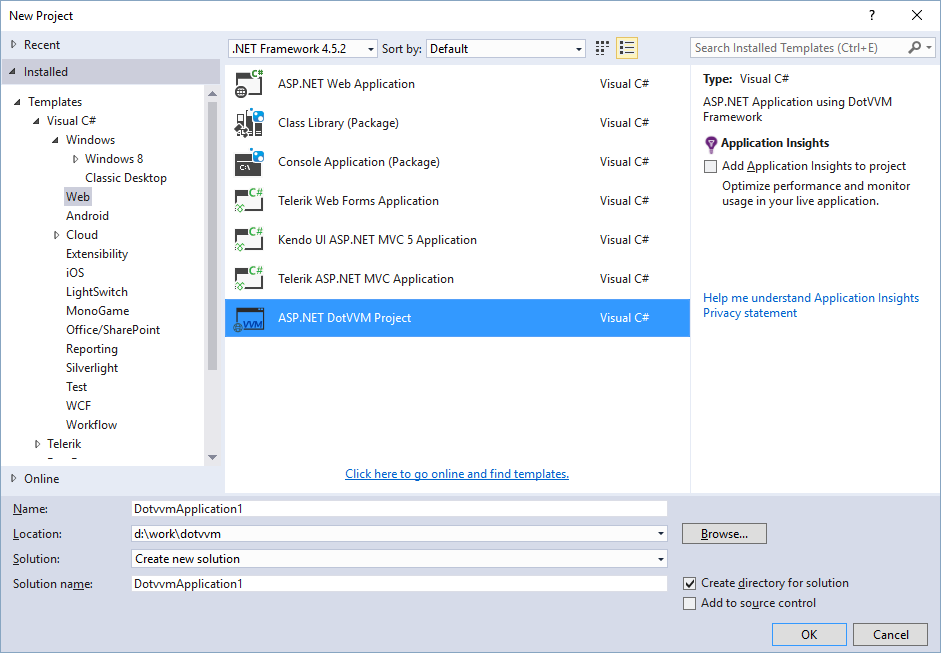
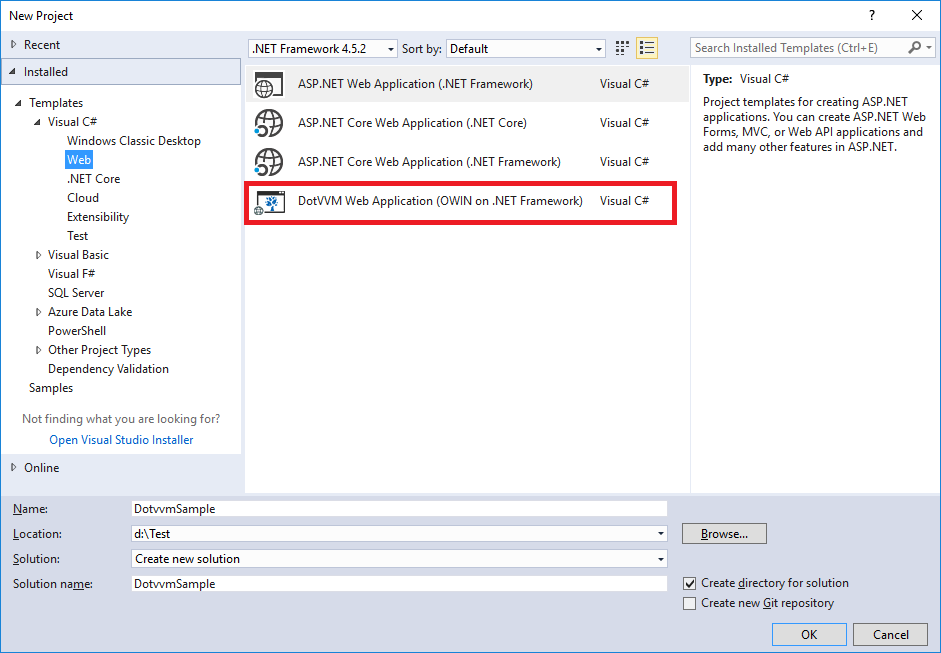
How to start chapter updated to version 1.1

diff --git a/Pages/how-to-start-existing-app.md b/Pages/how-to-start-existing-app.md
@@ -1,21 +1,24 @@
 ## Adding DotVVM in Existing Web App
 
 **DotVVM** can be easily combined with other ASP.NET frameworks, like SignalR, Web API or MVC. 
-DotVVM is yet another OWIN middleware that can be added in the request processing pipeline.
+DotVVM is yet another OWIN / ASP.NET Core middleware that can be added in the request processing pipeline.
 
 
-### Installing the Nuget Package
+### Installing the Nuget Package (OWIN)
 
-To add **DotVVM** in an existing ASP.NET project, simply install **DotVVM** Nuget package using Package Manager Console:
+If you use classic .NET Framework project, you are most probably using **OWIN** to compose your web application.
 
-    Install-Package DotVVM -Pre
+To add **DotVVM** in an existing ASP.NET project with OWIN, simply install `DotVVM.Owin` Nuget package using Package Manager Console:
 
-The package will add a reference to **DotVVM.Framework** library to the project.
+    Install-Package DotVVM.Owin -Pre
+
+The package will reference **DotVVM.Framework** and **DotVVM.Framework.Hosting.Owin** libraries in the project.
+
 
 ### Initialization
 
-The next thing you have to do is to register the DotVVM middleware. In your Owin startup class, you have to add the 
-DotVVM middleware. 
+The next thing you have to do, is to register the DotVVM middleware. In your Owin startup class, you have to add the 
+DotVVM middleware. If you are using some authentication middlewares, remember that these should be registered first.
 
 If you don't have an Owin startup class in your projects, right click the project in the Solution Explorer window and 
 add new _OWIN Startup Class_ in the project. It should look like this. 
@@ -41,7 +44,48 @@ namespace DotvvmDemo
 }
 ```
 
-Notice that the code references the DotvvmStartup class. It is a class you have to add in your project too. 
+<br />
+
+
+### Installing the Nuget Package (ASP.NET Core)
+
+If you use .NET Core, or the new ASP.NET Core stack, you need ASP.NET Core version of DotVVM.
+
+To add **DotVVM** in an existing ASP.NET Core project, simply install `DotVVM.AspNetCore` Nuget package using Package Manager Console:
+
+    Install-Package DotVVM.AspNetCore -Pre
+
+The package will reference **DotVVM.Framework** and **DotVVM.Framework.Hosting.AspNetCore** libraries in the project.
+
+
+### Initialization
+
+You have to do two things in the `Startup` class:
+
+* Add DotVVM services in the `IServiceCollection` object.
+
+* Add the DotVVM middlewares in the ASP.NET Core request pipeline.
+
+First, add the following code snippet in the `ConfigureServices` method:
+
+```CSHARP
+services.AddDotVVM(options =>
+{
+    options.AddDefaultTempStorages("Temp");
+});
+```
+
+Second, add the following code snippet in the `Configure` method. If you are using some authentication middlewares, remember that these should be registered first.
+
+```CSHARP
+var config = app.UseDotVVM<DotvvmStartup>(env.ContentRootPath);
+```
+
+
+
+### DotvvmStartup class (both OWIN and ASP.NET Core)
+
+Notice that the code references the `DotvvmStartup` class. It is a class you have to add in your project too. 
 This class contains the configuration of DotVVM itself, e.g. the registration of routes in your app.
 
 ```CSHARP

diff --git a/Pages/how-to-start-dnx.md b/Pages/how-to-start-dnx.md
@@ -1,7 +1,11 @@
-## Create a new project (DNX)
+## Create a New Project (ASP.NET Core)
 
-**DotVVM** is going to support the DNX and new .NET Core however we are not ready for the complete switch yet.
-After version 1.0 is out, we'll start with the .NET Core version.
+**DotVVM 1.1 and newer** supports ASP.NET Core platform (on both .NET Framework and .NET Core).
 
++ To use **.NET Core**, choose the first template __DotVVM Web Application (.NET Core)__.
 
-If you can't wait, you can [help us](https://github.com/riganti/dotvvm).
++ To use **.NET Framework** with **ASP.NET Core**, choose the second template __DotVVM Web Application (ASP.NET Core on .NET Framework)__.
+
+<img src="{imageDir}how-to-start-dnx_img1.png" alt="Creating a new DotVVM app with ASP.NET Core" />
+
+After you confirm the selection, Visual Studio will create the project and install all NuGet packages required by DotVVM automatically.

diff --git a/Pages/how-to-start-dotnet-451.md b/Pages/how-to-start-dotnet-451.md
@@ -1,10 +1,10 @@
 ## Create a new project (ASP.NET 4.5.1)
 
-Creating a new **DotVVM** project is really simple. First, download and install the [DotVVM for Visual Studio 2015](https://www.dotvvm.com/landing/dotvvm-for-visual-studio-extension) extension.
+Creating a new **DotVVM** project is really simple. First, download and install the [DotVVM for Visual Studio](https://www.dotvvm.com/landing/dotvvm-for-visual-studio-extension) extension.
 
 After the installation completes, just run the **Visual Studio 2015** and click the **Start New Project** link.
 You should see the **ASP.NET DotVVM Project** in the **Web** category.
 
 <img src="{imageDir}how-to-start-dotnet-451_img1.png" alt="Creating a new ASP.NET DotVVM Project" />
 
-
+After you confirm the selection, Visual Studio will create the project and install all NuGet packages required by DotVVM.
